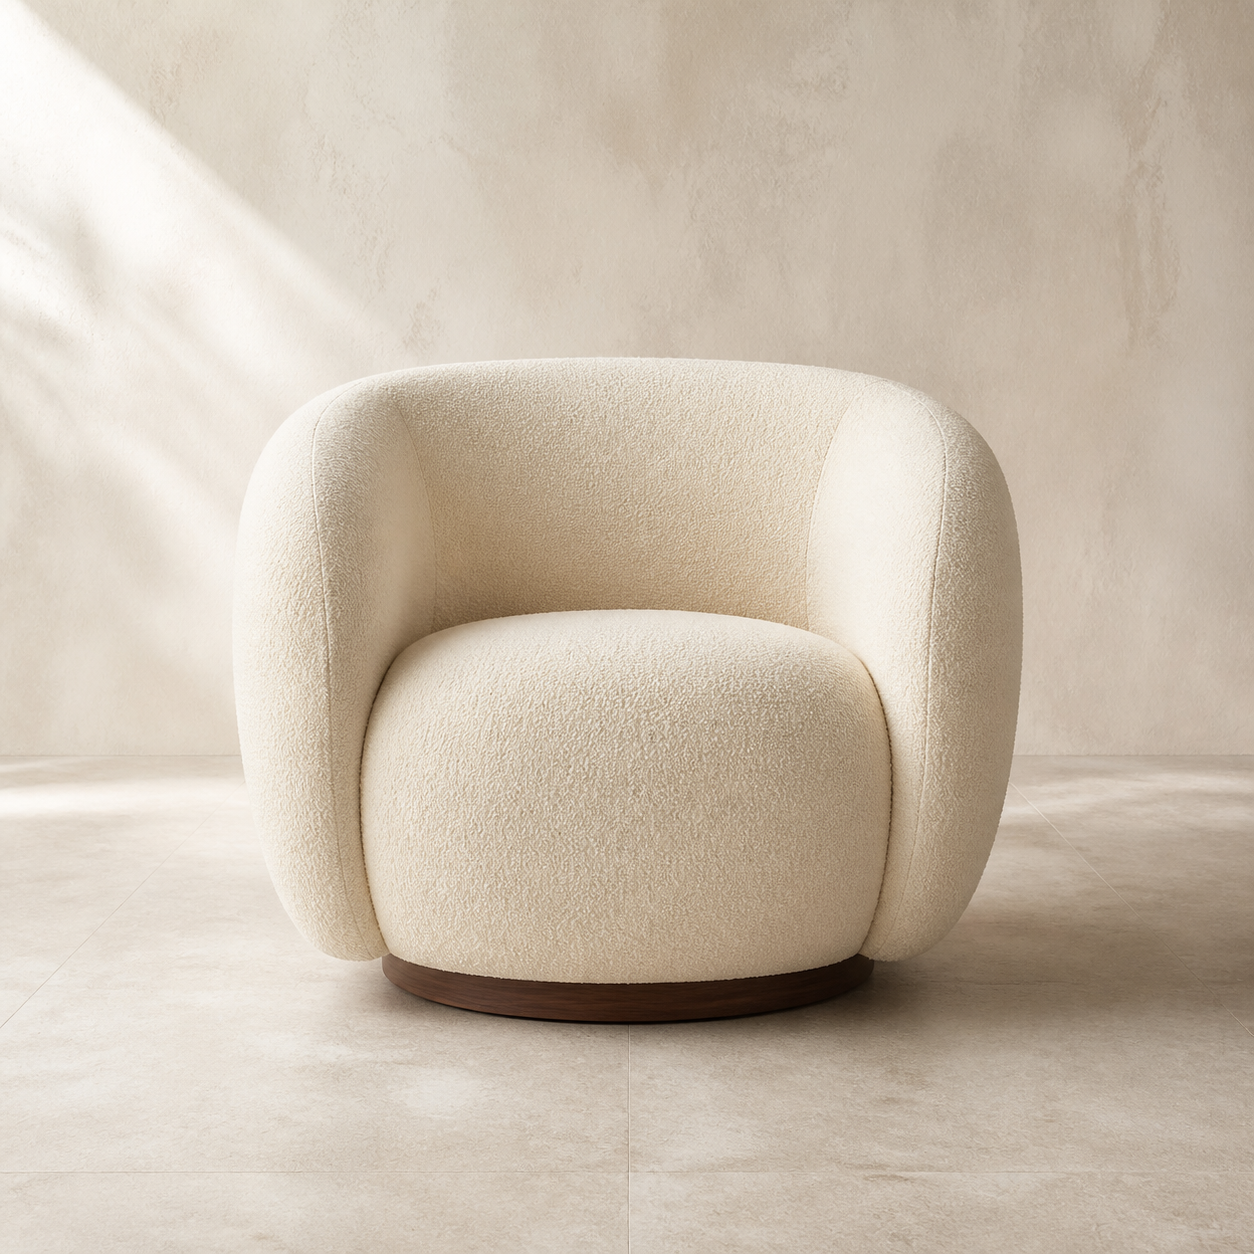
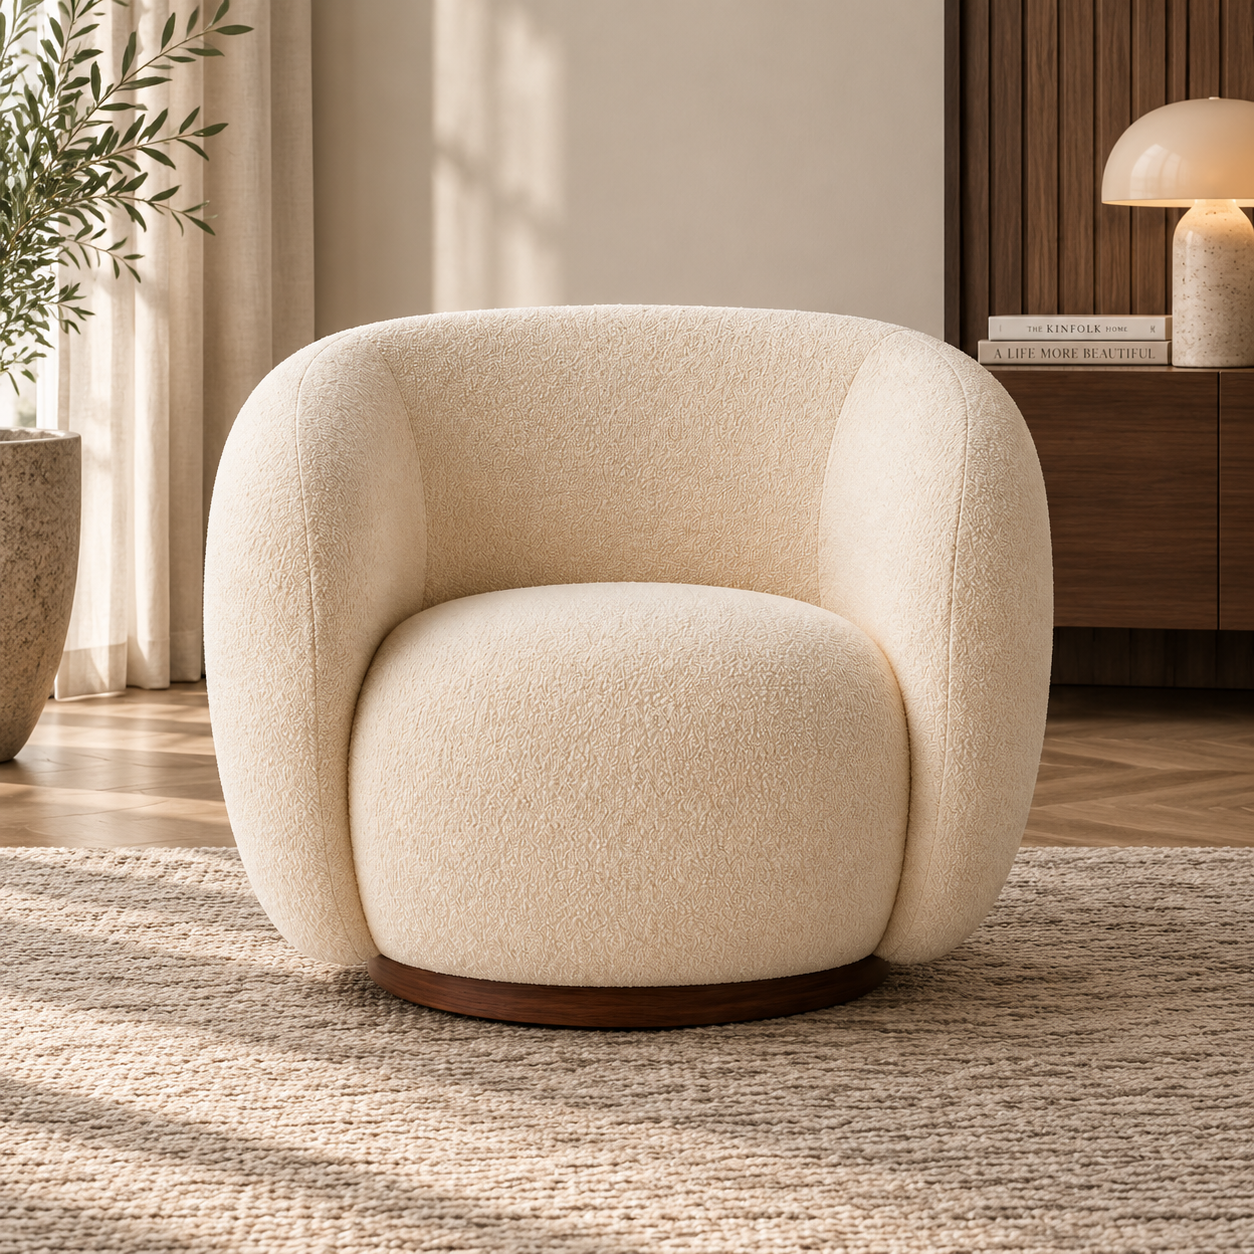
feat(catalog): add Forma armchair gallery

diff --git a/src/modules/catalog/mock-data.ts b/src/modules/catalog/mock-data.ts
@@ -592,10 +592,45 @@ export const products = [
     image: "/images/armchairs/forma-armchair/01-main.png",
     imageAlt: "Светлое кресло Forma из фактурной ткани",
     gallery: [
-      { src: "/images/armchairs/forma-armchair/01-main.png", alt: "Кресло Forma, вид спереди" },
+      {
+        src: "/images/armchairs/forma-armchair/01-main.png",
+        alt: "Кресло Forma в светлом интерьере, вид спереди",
+      },
+      {
+        src: "/images/armchairs/forma-armchair/02-three-quarter.png",
+        alt: "Кресло Forma в интерьере, вид в три четверти",
+      },
+      {
+        src: "/images/armchairs/forma-armchair/03-armrest-detail.png",
+        alt: "Закруглённый подлокотник кресла Forma крупным планом",
+      },
+      {
+        src: "/images/armchairs/forma-armchair/04-fabric-detail.png",
+        alt: "Фактура светлой обивки кресла Forma крупным планом",
+      },
+      {
+        src: "/images/armchairs/forma-armchair/05-side.png",
+        alt: "Кресло Forma, вид сбоку",
+      },
+      {
+        src: "/images/armchairs/forma-armchair/06-base-detail.png",
+        alt: "Деревянное основание кресла Forma крупным планом",
+      },
+      {
+        src: "/images/armchairs/forma-armchair/07-lifestyle.png",
+        alt: "Кресло Forma с сидящим человеком в гостиной",
+      },
+      {
+        src: "/images/armchairs/forma-armchair/08-dimensions.png",
+        alt: "Схема размеров кресла Forma спереди и сбоку",
+      },
+      {
+        src: "/images/armchairs/forma-armchair/09-interior.png",
+        alt: "Кресло Forma в просторной современной гостиной",
+      },
     ],
     specifications: [
-      { label: "Размер", value: "86 × 92 × 74 см" },
+      { label: "Размер", value: "89 × 81 × 75 см" },
       { label: "Каркас", value: "Берёзовая фанера, массив" },
       { label: "Наполнение", value: "Пенополиуретан разной плотности" },
     ],

diff --git a/src/app/(store)/page.test.tsx b/src/app/(store)/page.test.tsx
@@ -14,7 +14,7 @@ describe("HomePage", () => {
     expect(html.match(/>Добавить в корзину<\/button>/g)).toHaveLength(4);
     expect(html.match(/>Перейти к товару<\/a>/g)).toHaveLength(4);
     expect(html).toContain('aria-label="Кратко о товаре «Кресло Forma»"');
-    expect(html).toContain("86 × 92 × 74 см");
+    expect(html).toContain("89 × 81 × 75 см");
     expect(html).toContain('href="/product/forma-armchair"');
     expect(html).toContain('aria-label="Добавить «Кресло Forma» в корзину"');
     expect(html).toContain("Почему Virtual Space");

diff --git a/docs/progress.md b/docs/progress.md
@@ -1193,3 +1193,18 @@ tests/e2e/accessibility.spec.ts tests/e2e/header.spec.ts --project=chromium` —
   каскадные 403; повторный набор через `localhost` выявил три несвязанных UI-падения, а точечный
   запуск шести затронутых сценариев завершил сами тесты успешно, но процесс Playwright пришлось
   остановить вручную из-за зависшего завершения web server.
+
+## Task 80 — Галерея кресла Forma
+
+- Результат: страница `/product/forma-armchair` использует девять согласованных квадратных кадров:
+  основной вид, ракурс в три четверти, детали подлокотника, ткани и основания, боковой вид,
+  lifestyle-сцену, схему размеров и общий интерьер; для каждого кадра задан содержательный alt-текст.
+- Файлы: `src/modules/catalog/mock-data.ts`, `src/app/(store)/page.test.tsx`,
+  `public/images/armchairs/forma-armchair/**`, `docs/progress.md`.
+- Проверки: все девять PNG декодируются и имеют размер `1254×1254`; Prettier, ESLint, TypeScript,
+  60 Jest-тестов, production build и существующий Playwright-сценарий страницы товара — успешно.
+- Переменные окружения: нет.
+- Архитектура: без изменений; использован существующий `ProductGallery`.
+- Product Tour: без изменений; документ уже описывает управление галереей товара.
+- Ограничения: Playwright выполнил целевой тест без падения, но процесс пришлось остановить вручную
+  из-за зависшего завершения локального dev web server; Browser plugin недоступен.
